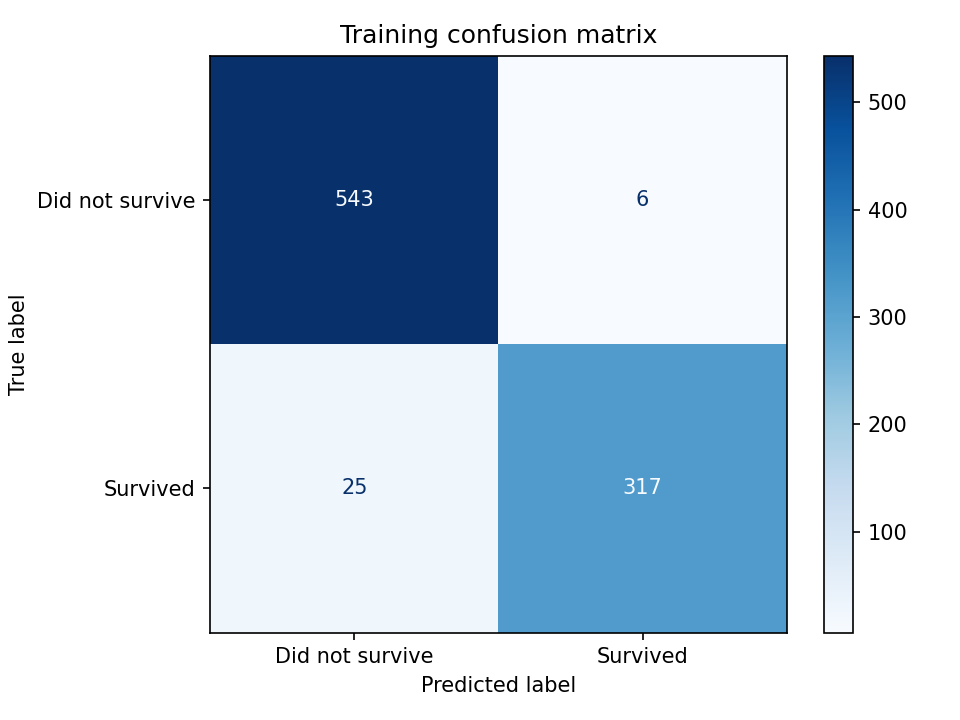
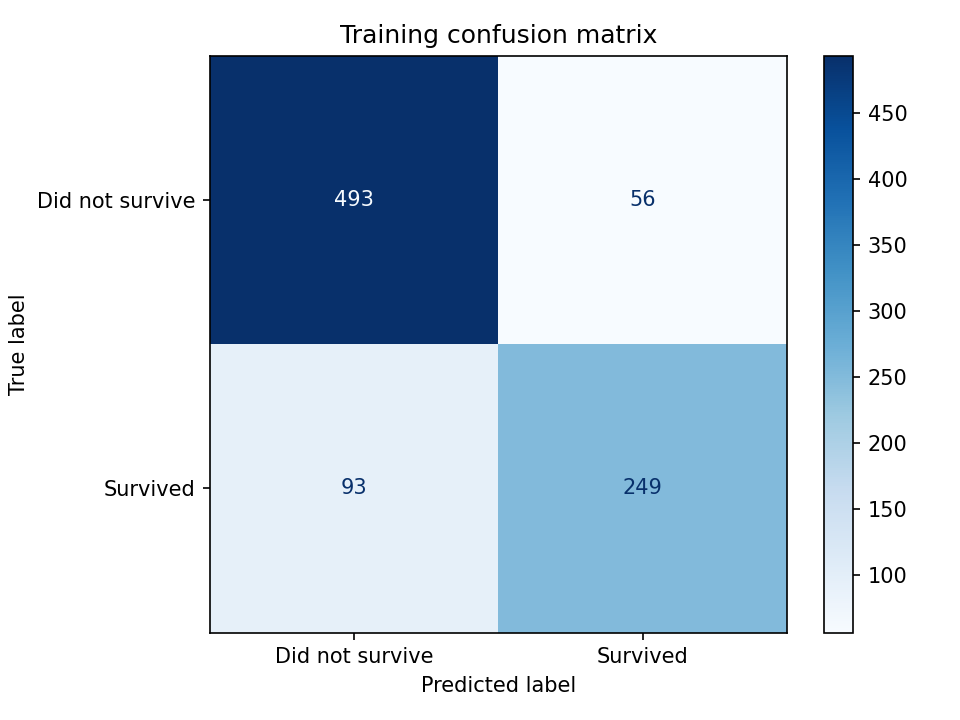
docs: improve README with visual reports and add figure generation script

diff --git a/src/generate_readme_figures.py b/src/generate_readme_figures.py
@@ -9,7 +9,7 @@ matplotlib.use("Agg")
 import matplotlib.pyplot as plt
 import pandas as pd
 import seaborn as sns
-from sklearn.metrics import ConfusionMatrixDisplay, RocCurveDisplay, confusion_matrix, roc_curve
+from sklearn.metrics import ConfusionMatrixDisplay, RocCurveDisplay, confusion_matrix, roc_auc_score, roc_curve
 
 from src.config import DATA_PROCESSED_DIR, KAGGLE_INPUT_DIR, MODELS_DIR
 
@@ -48,10 +48,27 @@ def _load_training_data() -> pd.DataFrame:
     return clean_train
 
 
+def _load_test_data() -> pd.DataFrame:
+    """Load clean test data or rebuild it from the configured Kaggle input."""
+    clean_path = Path(DATA_PROCESSED_DIR) / "test_clean.csv"
+    if clean_path.exists():
+        return pd.read_csv(clean_path)
+    from src.features import engineer_features
+    from src.imputation import impute_missing_values
+
+    raw_train = pd.read_csv(Path(KAGGLE_INPUT_DIR) / "train.csv")
+    raw_test = pd.read_csv(Path(KAGGLE_INPUT_DIR) / "test.csv")
+    engineered_train = engineer_features(raw_train)
+    engineered_test = engineer_features(raw_test)
+    _, clean_test = impute_missing_values(engineered_train, engineered_test)
+    return clean_test
+
+
 def run() -> None:
     """Create feature importance, confusion matrix, ROC, and domain plots."""
     FIGURES_DIR.mkdir(parents=True, exist_ok=True)
     train = _load_training_data()
+    test = _load_test_data()
     features = [column for column in train.columns if column not in {"Survived", "PassengerId"}]
     X, y = train[features], train["Survived"].astype(int)
     model = _load_model()
@@ -74,26 +91,55 @@ def run() -> None:
         plt.savefig(FIGURES_DIR / "feature_importance.png", dpi=150)
         plt.close()
 
-    matrix = confusion_matrix(y, predictions)
+    # Prefer honest OOF predictions when the stacking run has saved them.
+    oof_path = Path(PROJECT_DIR) / "experiments" / "oof_predictions.npz"
+    if oof_path.exists():
+        oof = __import__("numpy").load(oof_path)
+        oof_predictions = oof["predictions"]
+        oof_target = oof["target"].astype(int)
+        meta_path = Path(MODELS_DIR) / "stacking_meta_model.joblib"
+        if meta_path.exists():
+            import joblib
+
+            meta_model = joblib.load(meta_path)
+            validation_probabilities = meta_model.predict_proba(oof_predictions)[:, 1]
+            validation_predictions = (validation_probabilities >= 0.5).astype(int)
+            validation_y = oof_target
+        else:
+            validation_probabilities = probabilities
+            validation_predictions = predictions
+            validation_y = y
+    else:
+        validation_probabilities = probabilities
+        validation_predictions = predictions
+        validation_y = y
+
+    matrix = confusion_matrix(validation_y, validation_predictions)
     ConfusionMatrixDisplay(matrix, display_labels=["Did not survive", "Survived"]).plot(cmap="Blues")
     plt.title("Training confusion matrix")
     plt.tight_layout()
     plt.savefig(FIGURES_DIR / "confusion_matrix.png", dpi=150)
     plt.close()
 
-    fpr, tpr, _ = roc_curve(y, probabilities)
-    RocCurveDisplay(fpr=fpr, tpr=tpr).plot()
-    plt.title("ROC-AUC curve")
+    fpr, tpr, _ = roc_curve(validation_y, validation_probabilities)
+    RocCurveDisplay(fpr=fpr, tpr=tpr).plot(label=f"OOF ROC-AUC = {roc_auc_score(validation_y, validation_probabilities):.3f}")
+    plt.title("OOF ROC-AUC curve")
     plt.tight_layout()
     plt.savefig(FIGURES_DIR / "roc_auc_curve.png", dpi=150)
     plt.close()
 
-    plot_data = train.assign(Predicted=predictions)
+    test_features = [column for column in test.columns if column != "PassengerId"]
+    test_probability = model.predict_proba(test[test_features])[:, 1]
+    plot_data = pd.DataFrame({
+        "Dataset": ["Train", "Test"],
+        "Survival rate": [float(y.mean()), float((test_probability >= 0.5).mean())],
+    })
     plt.figure(figsize=(8, 5))
-    sns.barplot(data=plot_data, x="Pclass", y="Survived", hue="Sex", errorbar=None)
-    plt.title("Observed survival by passenger class and sex")
+    sns.barplot(data=plot_data, x="Dataset", y="Survival rate", hue="Dataset", legend=False)
+    plt.ylim(0, 1)
+    plt.title("Training vs predicted test survival rate")
     plt.tight_layout()
-    plt.savefig(FIGURES_DIR / "survival_by_sex_class.png", dpi=150)
+    plt.savefig(FIGURES_DIR / "survival_comparison.png", dpi=150)
     plt.close()
     LOGGER.info("Generated README figures in %s", FIGURES_DIR)
 

diff --git a/README.md b/README.md
@@ -48,7 +48,7 @@ Logistic Regression meta-model trained on out-of-fold probabilities.
 - OOF ROC-AUC: **0.8836**
 - OOF accuracy: **0.8328**
 - OOF macro-F1: **0.8192**
-- Public Kaggle leaderboard score: **0.9099**
+- Public Kaggle leaderboard score: **0.9099 (≈91% accuracy)**
 
 The leaderboard score is an external evaluation, while the OOF metrics are the
 reproducible local validation results saved in `experiments/`.
@@ -208,7 +208,7 @@ updated.
 
 ![ROC-AUC curve](reports/figures/roc_auc_curve.png)
 
-![Survival by sex and class](reports/figures/survival_by_sex_class.png)
+![Survival distribution comparison](reports/figures/survival_comparison.png)
 
 ## Lessons Learned
 
